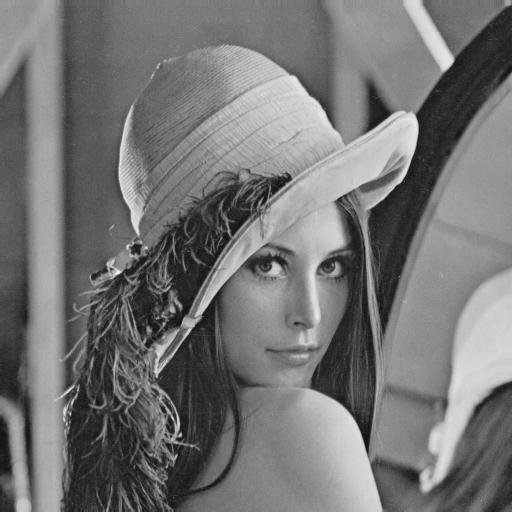
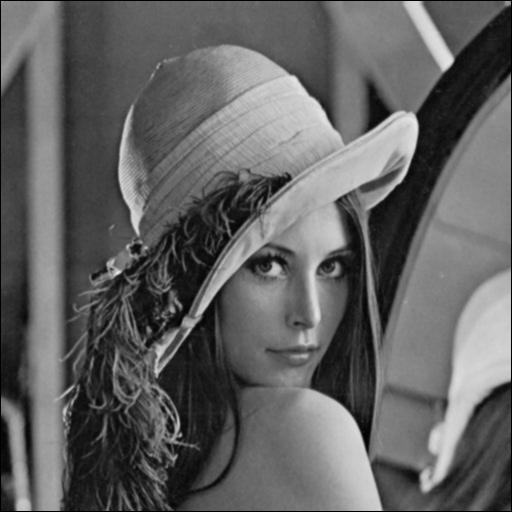
Finished mask filters

diff --git a/paintapp.py b/paintapp.py
@@ -38,6 +38,8 @@ class Window(QMainWindow):
     end_point_cords = QPoint(0, 0)
     # selected tool
     selected_tool = ToolSelect.Select.value
+    # mask value array
+    mask_array = []
     def __init__(self):
         super().__init__()
         self.setWindowTitle("PaintApp")
@@ -133,8 +135,12 @@ class Window(QMainWindow):
         self.point_button.clicked.connect(self.show_point_dialog)
 
         self.mask_button = QPushButton("Create mask", self)
-        self.mask_button.setGeometry(QtCore.QRect(200, 510, 80, 20))
+        self.mask_button.setGeometry(QtCore.QRect(200, 530, 80, 20))
         self.mask_button.clicked.connect(self.show_mask_dialog)
+
+        self.apply_filter_button = QPushButton("Apply filter", self)
+        self.apply_filter_button.setGeometry(500, 540, 100, 30)
+        self.apply_filter_button.clicked.connect(self.apply_filters)
 
         # labels
         self.photo = QLabel(self)
@@ -206,13 +212,17 @@ class Window(QMainWindow):
         self.colorLabel.setStyleSheet("QLabel { background-color: black}")
 
         self.maskValueInfoLabel = QLabel("Selected mask:", self)
-        self.maskValueInfoLabel.setGeometry(QtCore.QRect(310, 500, 80, 100))
+        self.maskValueInfoLabel.setGeometry(QtCore.QRect(310, 520, 80, 100))
         self.maskValueInfoLabel.setAlignment(Qt.AlignTop)
         self.maskValueInfoLabel.setVisible(False)
 
         self.maskValueLabel = QLabel("", self)
-        self.maskValueLabel.setGeometry(QtCore.QRect(310, 520, 80, 100))
+        self.maskValueLabel.setGeometry(QtCore.QRect(310, 540, 80, 90))
         self.maskValueLabel.setAlignment(Qt.AlignTop)
+
+        self.filter_label = QLabel("Filters:", self)
+        self.filter_label.setGeometry(QtCore.QRect(400, 520, 80, 100))
+        self.filter_label.setAlignment(Qt.AlignTop)
 
         #line edit
         self.point_start_x1_edit = QLineEdit(self)
@@ -250,6 +260,14 @@ class Window(QMainWindow):
         self.size_select_box.currentIndexChanged.connect(self.size_combo_box)
         self.text_creator_section.append(self.size_select_box)
 
+        self.filter_select_box = QComboBox(self)
+        self.filter_select_box.setGeometry(400, 540, 100, 30)
+        self.filter_select_box.addItem("Smoothing filter")
+        self.filter_select_box.addItem("Median filter")
+        self.filter_select_box.addItem("Sobel filter")
+        self.filter_select_box.addItem("High-pass filter")
+        self.filter_select_box.addItem("Gauss filter")
+        self.filter_select_box.addItem("Convolution")
         # regex
         y_regex = QtCore.QRegExp("([0-9]|[1-8][0-9]|9[0-9]|[1-3][0-9]{2}|4[0-3][0-9]|440)")  # value between 0 and 440
         y_validator = QRegExpValidator(y_regex)
@@ -269,6 +287,213 @@ class Window(QMainWindow):
         # sections visibility
         self.setTextCreatorSectionVisibility(False)
         self.setResizerVisabilitySection(False)
+
+    def apply_filter_from_mask(self, mask):
+        img = Image.open(self.path_label.text(), "r")
+        np_img = np.asarray(img)
+
+        pix_val = list(img.getdata())
+        maskLen = len(mask[0])
+
+        window_val = 0
+        if maskLen == 3:
+            window_val = 3
+        elif maskLen == 5:
+            window_val = 5
+        elif maskLen == 7:
+            window_val = 7
+
+        pad_w = int(window_val / 2)
+        mask_weight = 0
+        for k in range(window_val):
+            for l in range(window_val):
+                mask_weight += mask[k][l]
+        if mask_weight == 0:
+            mask_weight = 1
+
+        result_array = np.zeros(shape=(len(np_img), len(np_img[0]), 3))
+
+        if isinstance(pix_val[0], tuple):
+            k_counter = 0
+            l_counter = 0
+            for i in range(pad_w, len(np_img) - pad_w):
+                for j in range(pad_w, len(np_img[0]) - pad_w):
+                    sum_r = 0
+                    sum_g = 0
+                    sum_b = 0
+                    for k in range(window_val):
+                        for l in range(window_val):
+                            sum_r += np_img[k + k_counter][l + l_counter][0] * mask[k][l]
+                            sum_g += np_img[k + k_counter][l + l_counter][1] * mask[k][l]
+                            sum_b += np_img[k + k_counter][l + l_counter][2] * mask[k][l]
+
+                    pix_r = sum_r / mask_weight
+                    pix_g = sum_g / mask_weight
+                    pix_b = sum_b / mask_weight
+
+                    if pix_r > 255:
+                        pix_r = 255
+                    elif pix_r < 0:
+                        pix_r = 0
+                    if pix_g > 255:
+                        pix_g = 255
+                    elif pix_g < 0:
+                        pix_g = 0
+                    if pix_b > 255:
+                        pix_b = 255
+                    elif pix_b < 0:
+                        pix_b = 0
+
+                    result_array[i, j, 0] = pix_r
+                    result_array[i, j, 1] = pix_g
+                    result_array[i, j, 2] = pix_b
+
+                    l_counter += 1
+                k_counter += 1
+                l_counter = 0
+            img_filter = Image.fromarray(result_array.astype('uint8'), 'RGB')
+            img_filter.save("out/conv_filter.jpg")
+            self.setPhotoFromPath("out/conv_filter.jpg")
+        else:
+            img = img.convert("RGB")
+            np_img = np.asarray(img)
+            k_counter = 0
+            l_counter = 0
+            for i in range(pad_w, len(np_img) - pad_w):
+                for j in range(pad_w, len(np_img[0]) - pad_w):
+                    sum_g = 0
+                    for k in range(window_val):
+                        for l in range(window_val):
+                            sum_g += np_img[k + k_counter][l + l_counter][0] * mask[k][l]
+
+                    pix_g = sum_g / mask_weight
+
+                    if pix_g > 255:
+                        pix_g = 255
+                    elif pix_g < 0:
+                        pix_g = 0
+
+                    result_array[i, j, 0] = pix_g
+                    result_array[i, j, 1] = pix_g
+                    result_array[i, j, 2] = pix_g
+
+                    l_counter += 1
+                k_counter += 1
+                l_counter = 0
+
+            img_filter = Image.fromarray(result_array.astype('uint8'), 'RGB')
+            img_filter.save("out/conv_filter.jpg")
+            self.setPhotoFromPath("out/conv_filter.jpg")
+
+    def apply_median_filter(self):
+        img = Image.open(self.path_label.text(), "r")
+        # numpy array
+        np_img = np.asarray(img)
+
+        pix_val = list(img.getdata())
+        # input data
+        width = np_img.shape[1]
+        height = np_img.shape[0]
+        result_array = np.zeros(shape=(height, width, 3))
+
+        window_val = 3
+
+        pad_w = int(window_val / 2)
+        mask_size = window_val * window_val
+        median_index = int(((mask_size + 1) / 2) - 1)
+        r = [0] * mask_size
+        g = [0] * mask_size
+        b = [0] * mask_size
+        if isinstance(pix_val[0], tuple):
+            for i in range(pad_w, height - pad_w):
+                for j in range(pad_w, width - pad_w):
+                    mask_count = 0
+                    for k in range(window_val):
+                        for l in range(window_val):
+                            r[mask_count] = np_img[i + k - pad_w][j + l - pad_w][0]
+                            g[mask_count] = np_img[i + k - pad_w][j + l - pad_w][1]
+                            b[mask_count] = np_img[i + k - pad_w][j + l - pad_w][2]
+                            mask_count += 1
+
+                    r.sort()
+                    g.sort()
+                    b.sort()
+
+                    result_array[i, j, 0] = r[median_index]
+                    result_array[i, j, 1] = g[median_index]
+                    result_array[i, j, 2] = b[median_index]
+
+            img_filter = Image.fromarray(result_array.astype('uint8'), 'RGB')
+            img_filter.save("out/median_filter.jpg")
+            self.setPhotoFromPath("out/median_filter.jpg")
+        else:
+            img = img.convert("RGB")
+            np_img = np.asarray(img)
+            for i in range(pad_w, height - pad_w):
+                for j in range(pad_w, width - pad_w):
+                    mask_count = 0
+                    for k in range(window_val):
+                        for l in range(window_val):
+                            g[mask_count] = np_img[i + k - pad_w][j + l - pad_w][0]
+                            mask_count += 1
+
+                    g.sort()
+
+                    result_array[i, j, 0] = g[median_index]
+                    result_array[i, j, 1] = g[median_index]
+                    result_array[i, j, 2] = g[median_index]
+
+            img_filter = Image.fromarray(result_array.astype('uint8'), 'RGB')
+            img_filter.save("out/median_filter.jpg")
+            self.setPhotoFromPath("out/median_filter.jpg")
+
+    def apply_filters(self):
+        index = int(self.filter_select_box.currentIndex())
+        if self.path_label.text():
+            if index == 0:
+                # smoothing
+                mask = [[1, 1, 1],
+                        [1, 4, 1],
+                        [1, 1, 1]]
+                self.apply_filter_from_mask(mask)
+            elif index == 1:
+                self.apply_median_filter()
+            elif index == 2:
+                # sobel
+                mask = [[1, 2, 1],
+                        [0, 0, 0],
+                        [-1, -2, -1]]
+                self.apply_filter_from_mask(mask)
+            elif index == 3:
+                # high-pass
+                mask = [[-1, -1, -1],
+                        [-1, 9, -1],
+                        [-1, -1, -1]]
+                self.apply_filter_from_mask(mask)
+            elif index == 4:
+                # gasuss
+                mask = [[1, 2, 1],
+                        [2, 4, 2],
+                        [1, 2, 1]]
+                self.apply_filter_from_mask(mask)
+            elif index == 5:
+                if len(self.mask_array) > 0:
+                    mask = self.mask_array
+                    self.apply_filter_from_mask(mask)
+                else:
+                    msg = QMessageBox()
+                    msg.setIcon(QMessageBox.Warning)
+                    msg.setText("Create mask to apply convolution filter")
+                    msg.setWindowTitle("Warning!")
+                    msg.setStandardButtons(QMessageBox.Ok)
+                    msg.exec_()
+        else:
+            msg = QMessageBox()
+            msg.setIcon(QMessageBox.Warning)
+            msg.setText("Load image to apply filter")
+            msg.setWindowTitle("Warning!")
+            msg.setStandardButtons(QMessageBox.Ok)
+            msg.exec_()
 
     def show_cube(self):
         self.window = CubeWindow()
@@ -307,6 +532,7 @@ class Window(QMainWindow):
 
         if self.window.exec_() == 1:
             self.maskValueLabel.setText(self.ui.maskLabel)
+            self.mask_array = self.ui.maskArray
             self.maskValueInfoLabel.setVisible(True)
 
     def openFile(self):
@@ -320,7 +546,7 @@ class Window(QMainWindow):
             self.setPhotoFromPath(filepath)
 
         # close opened dialog if exists
-        if self.window:
+        if type(self.window) == QDialog:
             self.window.close()
 
     def saveFile(self):
